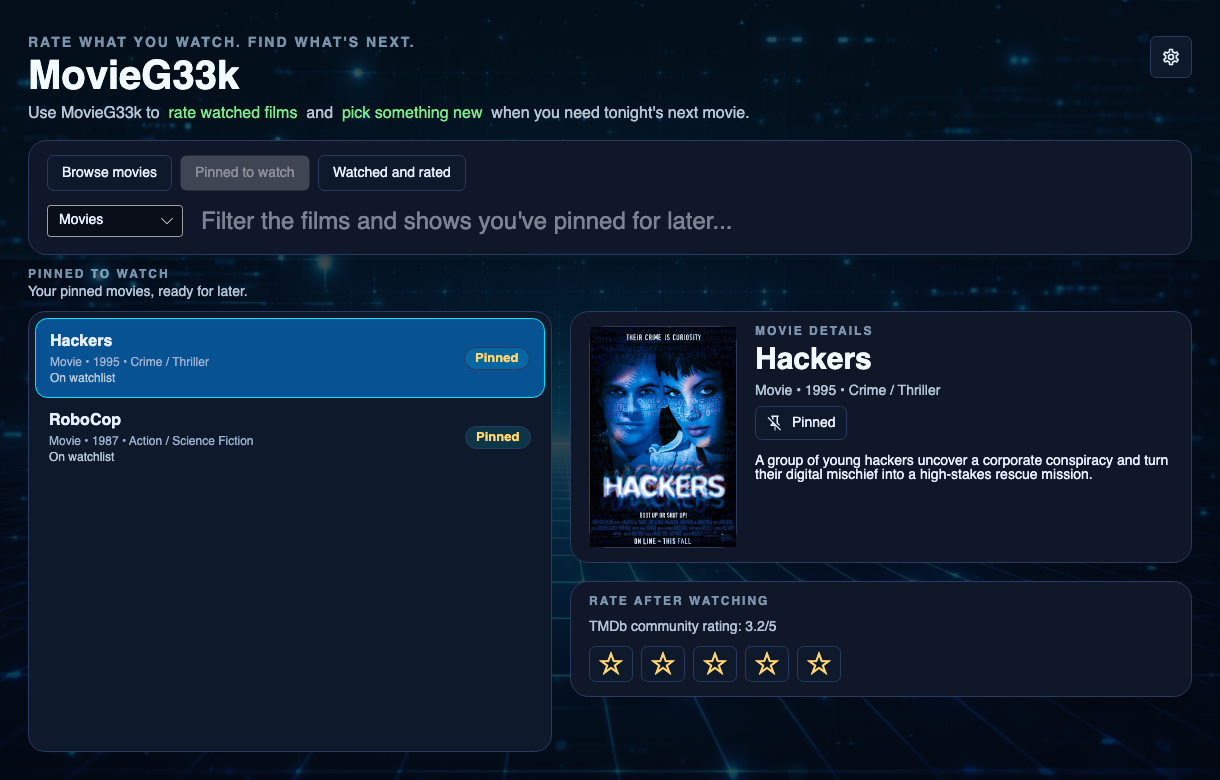
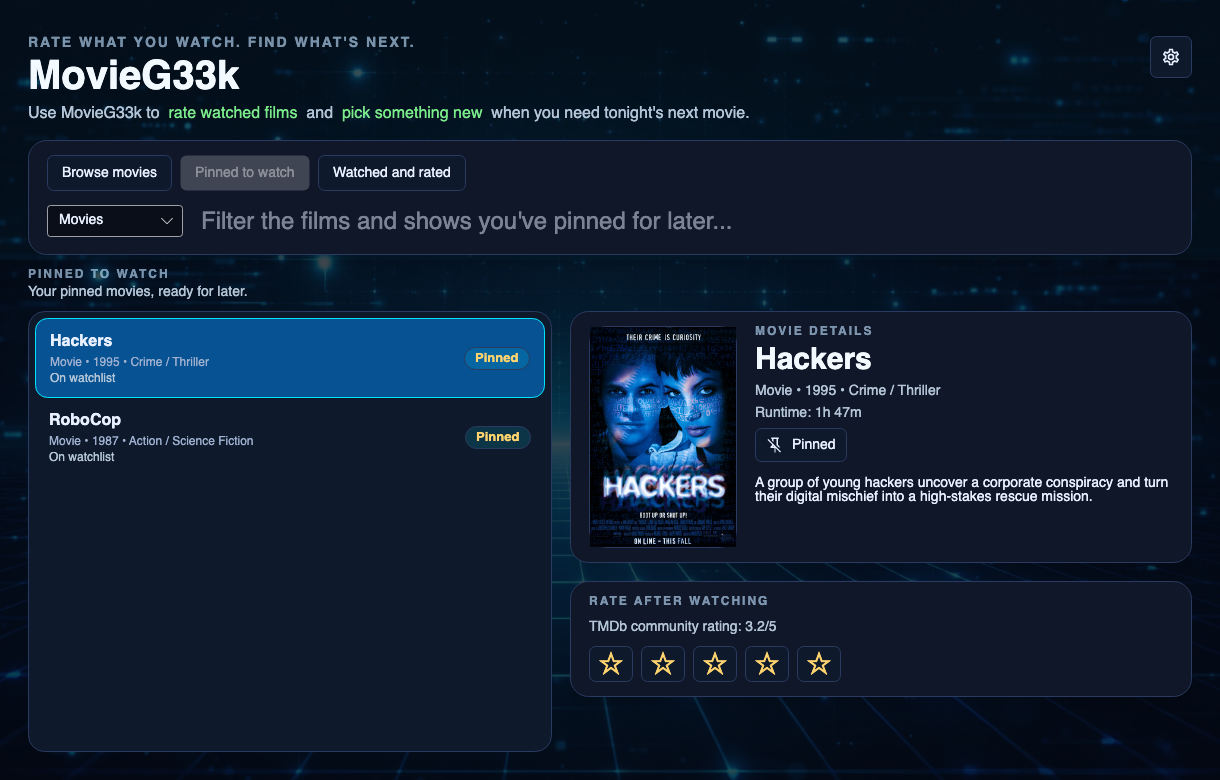
Feature: show runtime in movie details

Changed region(s): [[0.623, 0.5231, 0.9656, 0.6462]]

diff --git a/MovieG33k/ViewModels/MainWindowViewModel.cs b/MovieG33k/ViewModels/MainWindowViewModel.cs
@@ -169,6 +169,8 @@ public sealed class MainWindowViewModel : ViewModelBase
             OnPropertyChanged(nameof(SelectedRatingLabel));
             OnPropertyChanged(nameof(HasSelectedPublicRating));
             OnPropertyChanged(nameof(SelectedPublicRatingLabel));
+            OnPropertyChanged(nameof(HasSelectedRuntime));
+            OnPropertyChanged(nameof(SelectedRuntimeLabel));
             OnPropertyChanged(nameof(IsSelectedOnWatchlist));
             OnPropertyChanged(nameof(CanToggleWatchlist));
             OnPropertyChanged(nameof(WatchlistButtonLabel));
@@ -302,6 +304,13 @@ public sealed class MainWindowViewModel : ViewModelBase
         SelectedResult?.Snapshot.Title.PublicRating == null
             ? string.Empty
             : $"TMDb community rating: {SelectedResult.Snapshot.Title.PublicRating / 2m:0.0}/5";
+
+    public bool HasSelectedRuntime => TryGetSelectedRuntimeMinutes(out _);
+
+    public string SelectedRuntimeLabel =>
+        TryGetSelectedRuntimeMinutes(out var runtimeMinutes)
+            ? $"Runtime: {FormatRuntime(runtimeMinutes)}"
+            : string.Empty;
 
     public bool IsSelectedOnWatchlist => SelectedResult?.Snapshot.WatchlistEntry != null;
 
@@ -454,6 +463,38 @@ public sealed class MainWindowViewModel : ViewModelBase
         return await PosterHttpClient.GetStreamAsync(posterUrl, cancellationToken);
     }
 
+    private static HttpClient CreatePosterHttpClient()
+    {
+        var client = new HttpClient();
+        client.DefaultRequestHeaders.Accept.Add(new MediaTypeWithQualityHeaderValue("*/*"));
+        client.DefaultRequestHeaders.UserAgent.ParseAdd("MovieG33k/1.0");
+        return client;
+    }
+
+    private bool TryGetSelectedRuntimeMinutes(out int runtimeMinutes)
+    {
+        if (SelectedResult?.Snapshot.Title is MovieEntry { RuntimeMinutes: > 0 } movieEntry)
+        {
+            runtimeMinutes = movieEntry.RuntimeMinutes.Value;
+            return true;
+        }
+
+        runtimeMinutes = 0;
+        return false;
+    }
+
+    private static string FormatRuntime(int runtimeMinutes)
+    {
+        var hours = runtimeMinutes / 60;
+        var minutes = runtimeMinutes % 60;
+
+        return hours <= 0
+            ? $"{minutes}m"
+            : minutes == 0
+                ? $"{hours}h"
+                : $"{hours}h {minutes}m";
+    }
+
     private async Task RateSelectedTitleAsync(object parameter)
     {
         if (SelectedResult == null || !TryGetStars(parameter, out var stars))
@@ -463,13 +504,6 @@ public sealed class MainWindowViewModel : ViewModelBase
         await RefreshResultsAsync();
     }
 
-    private static HttpClient CreatePosterHttpClient()
-    {
-        var client = new HttpClient();
-        client.DefaultRequestHeaders.Accept.Add(new MediaTypeWithQualityHeaderValue("*/*"));
-        client.DefaultRequestHeaders.UserAgent.ParseAdd("MovieG33k/1.0");
-        return client;
-    }
     private async Task ToggleWatchlistAsync()
     {
         if (SelectedResult == null || !CanToggleWatchlist)
